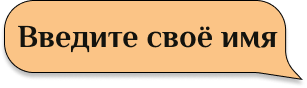
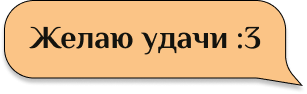
Переделанный квиз

diff --git a/templates/kviz1.html b/templates/kviz1.html
@@ -17,54 +17,20 @@
             Может быть, вы узнаете что-то новое для себя.</p>
             <p class="VarningKviz">Внимание!<br> 
             Мы призываем вас пройти квиз честно,<br> не используя сторонние источники<br> информации. А если вы хотите получить<br> за прохождение скидку 10% - обратитесь<br> к сотруднику с кодовым словом «КВИЗ».</p>
-            <img class="ImgName" src="/static/img/YourName.png" alt="Введите свое имя">
+            <img class="ImgLucky" src="/static/img/YourName.png" alt="Желаю удачи">
             <img  class="CatKviz" src="/static/img/CatKviz.png" alt="Котик">
-            
-            <form class="form">
-                <input class="input" name="NameUser"  id="InputName" type="text" required placeholder="сюда..." autofocus>
-                <button class="button">НАЧАТЬ</button>
-            </form>
             <div>
             </div>
             <div class="BackMain">
                 <a href="index.html"><svg class="Arow" xmlns="http://www.w3.org/2000/svg" width="40" height="16" viewBox="0 0 40 16" fill="none">
                     <path d="M0.292892 7.29289C-0.0976295 7.68342 -0.0976295 8.31658 0.292892 8.70711L6.65685 15.0711C7.04738 15.4616 7.68054 15.4616 8.07107 15.0711C8.46159 14.6805 8.46159 14.0474 8.07107 13.6569L2.41422 8L8.07107 2.34315C8.46159 1.95262 8.46159 1.31946 8.07107 0.928932C7.68054 0.538408 7.04738 0.538408 6.65685 0.928932L0.292892 7.29289ZM40 7L1 7V9L40 9V7Z" fill="#FCE6BA"/>
                 </svg></a>
-                <a href="index.html" class="TextBack">На главную</a></div>
+                <a href="index.html" class="TextBack">На главную</a>
+            </div>
+            <div class="Start"><a href="kviz2.html">НАЧАТЬ</a></div>
 
         
         </div>
     </div>
-    <script>
-        const input = document.querySelector('.input')
-        const button = document.querySelector('.button')
-    
-        const fetchData = async () => {
-          let response = await fetch('http://localhost:4444/', {  // url сервера
-            method: 'POST',
-            headers: {
-                'Content-Type': 'application/json;charset=utf-8'
-            },
-            body: JSON.stringify(input.value)
-        });
-    
-            let result = await response.json();
-        }   
-    
-        button.addEventListener('click', (e) => {
-            e.preventDefault()
-    
-            if (input.value === '') {
-                return;
-            }
-            try {
-                fetchData()
-                console.log(4)
-                window.open('./kviz2.html')
-            } catch(error) {
-                console.log(error)
-            }
-            })
-    </script>
 </body>
 </html>

diff --git a/static/css/kviz1.css b/static/css/kviz1.css
@@ -60,7 +60,7 @@ a{
     top: 270px;
     left: 117px;
 }
-.ImgName {
+.ImgLucky {
     position: absolute;
     top: 422px;
     left: 907px;
@@ -73,25 +73,6 @@ a{
     width: 476px;
     height: 476px;
     z-index: 0;
-}
-input{
-    position: absolute;
-    border-radius: 30px;
-    border: 2px solid #FCE6BA;
-    background: none;
-    width: 173px;
-    height: 39px;
-    top: 510px;
-    left: 964px;
-    color: #FCE6BA;
-    text-align: start;
-    font-size: 20px;
-    font-style: normal;
-    font-weight: 500;
-    line-height: normal;
-    padding-left: 10px;
-    font-family: "Philosopher";
-    padding-bottom: 5px;
 }
 .Start{
     border-radius: 50px;
